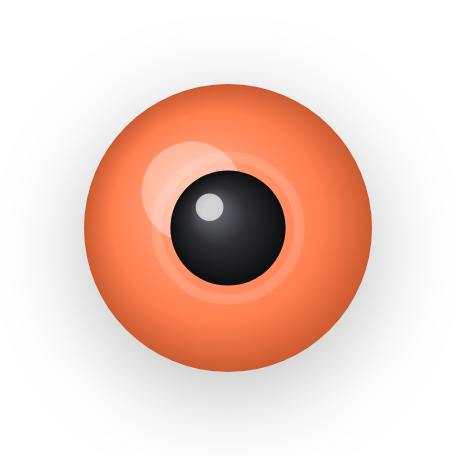
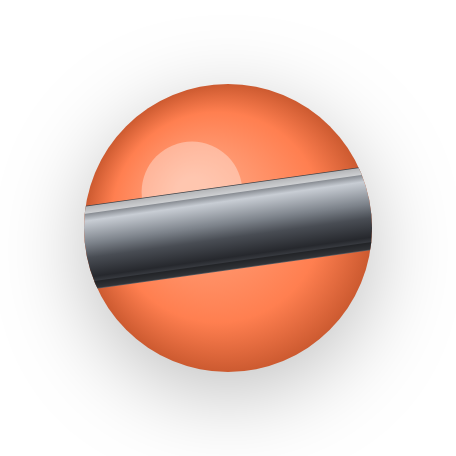
Ring idea: chained heavy box + chain-break on open, refresh assets
- Closed heavy box is now wrapped in crossed metal chains with a
  padlock (colour still visible in the corners); opening it snaps the
  chains (debris burst + metallic snap) so the weights spill out.
- Marbles keep their equatorial metal ring.
- Regenerate assets/heavy/*.png for the ring look (chained closed box,
  open box with ringed marbles, individual ringed marbles).

Claude-Session: https://claude.ai/code/session_01PjGdK4EQRB6mJyeBT2zsHj

Changed region(s): [[0.1842, 0.3684, 0.8289, 0.6447]]

diff --git a/js/heavy.js b/js/heavy.js
@@ -69,11 +69,65 @@ function drawHeavyCore(x, y, r, coreScale) {
   ctx.restore();
 }
 
+// ── One metallic chain band running between two points ──
+function drawChainBand(x1, y1, x2, y2, thick) {
+  var ang = Math.atan2(y2 - y1, x2 - x1);
+  var len = Math.sqrt((x2 - x1) * (x2 - x1) + (y2 - y1) * (y2 - y1));
+  ctx.save();
+  ctx.translate((x1 + x2) / 2, (y1 + y2) / 2);
+  ctx.rotate(ang);
+  var g = ctx.createLinearGradient(0, -thick / 2, 0, thick / 2);
+  g.addColorStop(0, '#E7EAEE');
+  g.addColorStop(0.28, '#B4B9C0');
+  g.addColorStop(0.5, '#82888F');
+  g.addColorStop(0.72, '#4E525A');
+  g.addColorStop(1, '#2E3136');
+  ctx.fillStyle = g;
+  rRect(-len / 2, -thick / 2, len, thick, thick * 0.5); ctx.fill();
+  // link separations
+  ctx.strokeStyle = 'rgba(18,20,24,0.6)'; ctx.lineWidth = Math.max(0.8, thick * 0.12); ctx.lineCap = 'round';
+  var link = thick * 1.05;
+  for (var d = -len / 2 + link * 0.5; d < len / 2; d += link) {
+    ctx.beginPath(); ctx.moveTo(d, -thick * 0.42); ctx.lineTo(d, thick * 0.42); ctx.stroke();
+  }
+  // top highlight + dark outline
+  ctx.strokeStyle = 'rgba(255,255,255,0.55)'; ctx.lineWidth = Math.max(0.5, thick * 0.1);
+  ctx.beginPath(); ctx.moveTo(-len / 2 + thick * 0.3, -thick * 0.2); ctx.lineTo(len / 2 - thick * 0.3, -thick * 0.2); ctx.stroke();
+  ctx.strokeStyle = 'rgba(18,20,24,0.7)'; ctx.lineWidth = Math.max(0.8, thick * 0.1);
+  rRect(-len / 2, -thick / 2, len, thick, thick * 0.5); ctx.stroke();
+  ctx.restore();
+}
+
+// ── A small steel padlock at the chains' crossing ──
+function drawPadlock(cx, cy, size) {
+  ctx.save();
+  // shackle
+  ctx.strokeStyle = '#6A6E76'; ctx.lineWidth = size * 0.15; ctx.lineCap = 'round';
+  ctx.beginPath(); ctx.arc(cx, cy - size * 0.02, size * 0.26, Math.PI, Math.PI * 2); ctx.stroke();
+  ctx.strokeStyle = '#3E4147'; ctx.lineWidth = size * 0.06;
+  ctx.beginPath(); ctx.arc(cx, cy - size * 0.02, size * 0.26, Math.PI, Math.PI * 2); ctx.stroke();
+  // body
+  var bw = size * 0.74, bh = size * 0.56, bx = cx - bw / 2, by = cy - size * 0.02;
+  ctx.shadowColor = 'rgba(0,0,0,0.3)'; ctx.shadowBlur = size * 0.12; ctx.shadowOffsetY = size * 0.04;
+  var g = ctx.createLinearGradient(0, by, 0, by + bh);
+  g.addColorStop(0, '#D2D7DD'); g.addColorStop(0.5, '#9298A0'); g.addColorStop(1, '#54585F');
+  ctx.fillStyle = g;
+  rRect(bx, by, bw, bh, size * 0.14); ctx.fill();
+  ctx.shadowColor = 'transparent'; ctx.shadowBlur = 0; ctx.shadowOffsetY = 0;
+  ctx.strokeStyle = 'rgba(18,20,24,0.7)'; ctx.lineWidth = Math.max(0.8, size * 0.05);
+  rRect(bx, by, bw, bh, size * 0.14); ctx.stroke();
+  // keyhole
+  ctx.fillStyle = 'rgba(20,22,26,0.85)';
+  ctx.beginPath(); ctx.arc(cx, by + bh * 0.42, size * 0.09, 0, Math.PI * 2); ctx.fill();
+  ctx.fillRect(cx - size * 0.03, by + bh * 0.42, size * 0.06, bh * 0.34);
+  ctx.restore();
+}
+
 // ── A still-closed heavy box ──
-// Full box colour stays visible (so the player can read it), encircled by
-// a tilted metal hoop (annulus) — the box's own take on the ring, matching
-// the marbles but distinct. Hidden+heavy keeps the colour concealed.
-// Box-local coordinates, origin at box centre.
+// Full box colour stays visible (so the player can read it), wrapped in
+// crossed metal CHAINS with a padlock — a chained-up "heavy" box. When it
+// opens the chains snap (see breakHeavyChains) and the weights spill out.
+// Hidden+heavy keeps the colour concealed. Box-local coords, origin centre.
 function drawHeavyClosedBox(w, h, S, tick, ci, boxType) {
   var left = -w / 2, top = -h / 2, r = 6 * S;
 
@@ -90,28 +144,12 @@ function drawHeavyClosedBox(w, h, S, tick, ci, boxType) {
     drawBox(left, top, w, h, ci);
   }
 
-  // Metal hoop around the box middle (colour shows through the hole and
-  // above/below the ring).
-  ctx.save();
-  ctx.rotate(-0.12);
-  var rx = w * 0.47, ry = h * 0.33, band = Math.max(3 * S, h * 0.14);
-  var g = ctx.createLinearGradient(0, -ry, 0, ry);
-  g.addColorStop(0, '#E9ECF0');
-  g.addColorStop(0.4, '#AAAFB6');
-  g.addColorStop(0.5, '#7E838B');
-  g.addColorStop(0.6, '#565A61');
-  g.addColorStop(1, '#303338');
-  ctx.fillStyle = g;
-  ctx.beginPath();
-  ctx.ellipse(0, 0, rx, ry, 0, 0, Math.PI * 2);
-  ctx.ellipse(0, 0, rx - band, ry - band * 0.72, 0, 0, Math.PI * 2);
-  ctx.fill('evenodd');
-  // outer dark rim + inner bright rim
-  ctx.strokeStyle = 'rgba(20,22,26,0.7)'; ctx.lineWidth = Math.max(1, 1.2 * S);
-  ctx.beginPath(); ctx.ellipse(0, 0, rx, ry, 0, 0, Math.PI * 2); ctx.stroke();
-  ctx.strokeStyle = 'rgba(255,255,255,0.4)'; ctx.lineWidth = Math.max(0.6, 0.8 * S);
-  ctx.beginPath(); ctx.ellipse(0, 0, rx - band, ry - band * 0.72, 0, 0, Math.PI * 2); ctx.stroke();
-  ctx.restore();
+  // Crossed chains (X) + padlock. Colour shows in the corners.
+  var thick = h * 0.15;
+  var inset = w * 0.05;
+  drawChainBand(left + inset, top + inset, left + w - inset, top + h - inset, thick);
+  drawChainBand(left + w - inset, top + inset, left + inset, top + h - inset, thick);
+  drawPadlock(0, 0, h * 0.36);
 }
 
 // ── Soft "pop" when the core vanishes on landing ──
@@ -129,4 +167,29 @@ function popHeavyCore(m) {
   m.coreShrinking = true;
   m.coreT = m.coreT == null ? 1 : m.coreT;
   heavyPopSound();
+}
+
+// ── Chains snapping when the box opens ──
+// A burst of dark chain-link debris + a metallic "snap"; the heavy
+// weights are then free to spill out.
+function chainSnapSound() {
+  if (typeof tone !== 'function') return;
+  tone(220, 0.08, 'square', 0.12, 80);
+  tone(1400, 0.06, 'square', 0.05, 500);
+}
+
+function breakHeavyChains(cx, cy) {
+  for (var i = 0; i < 16; i++) {
+    var a = Math.PI * 2 * i / 16 + Math.random() * 0.5;
+    var sp = 3 + Math.random() * 5;
+    var col = Math.random() > 0.5 ? 'rgba(150,156,164,0.95)' : 'rgba(70,74,80,0.95)';
+    particles.push({
+      x: cx, y: cy,
+      vx: Math.cos(a) * sp * S, vy: Math.sin(a) * sp * S,
+      r: (2 + Math.random() * 3) * S, color: col,
+      life: 1, decay: 0.02 + Math.random() * 0.02, grav: true
+    });
+  }
+  spawnBurst(cx, cy, 'rgba(255,255,255,0.9)', 6);
+  chainSnapSound();
 }

diff --git a/js/game.js b/js/game.js
@@ -260,6 +260,8 @@ function updateBoxReveals(animate) {
           });
         }
         if (typeof sfx !== 'undefined' && sfx.pop) sfx.pop();
+        // Heavy box opening: its chains snap and the weights spill out.
+        if (b.heavy && typeof breakHeavyChains === 'function') breakHeavyChains(bx, by);
       }
     } else if (!hasPath && b.revealed) {
       b.revealed = false;
